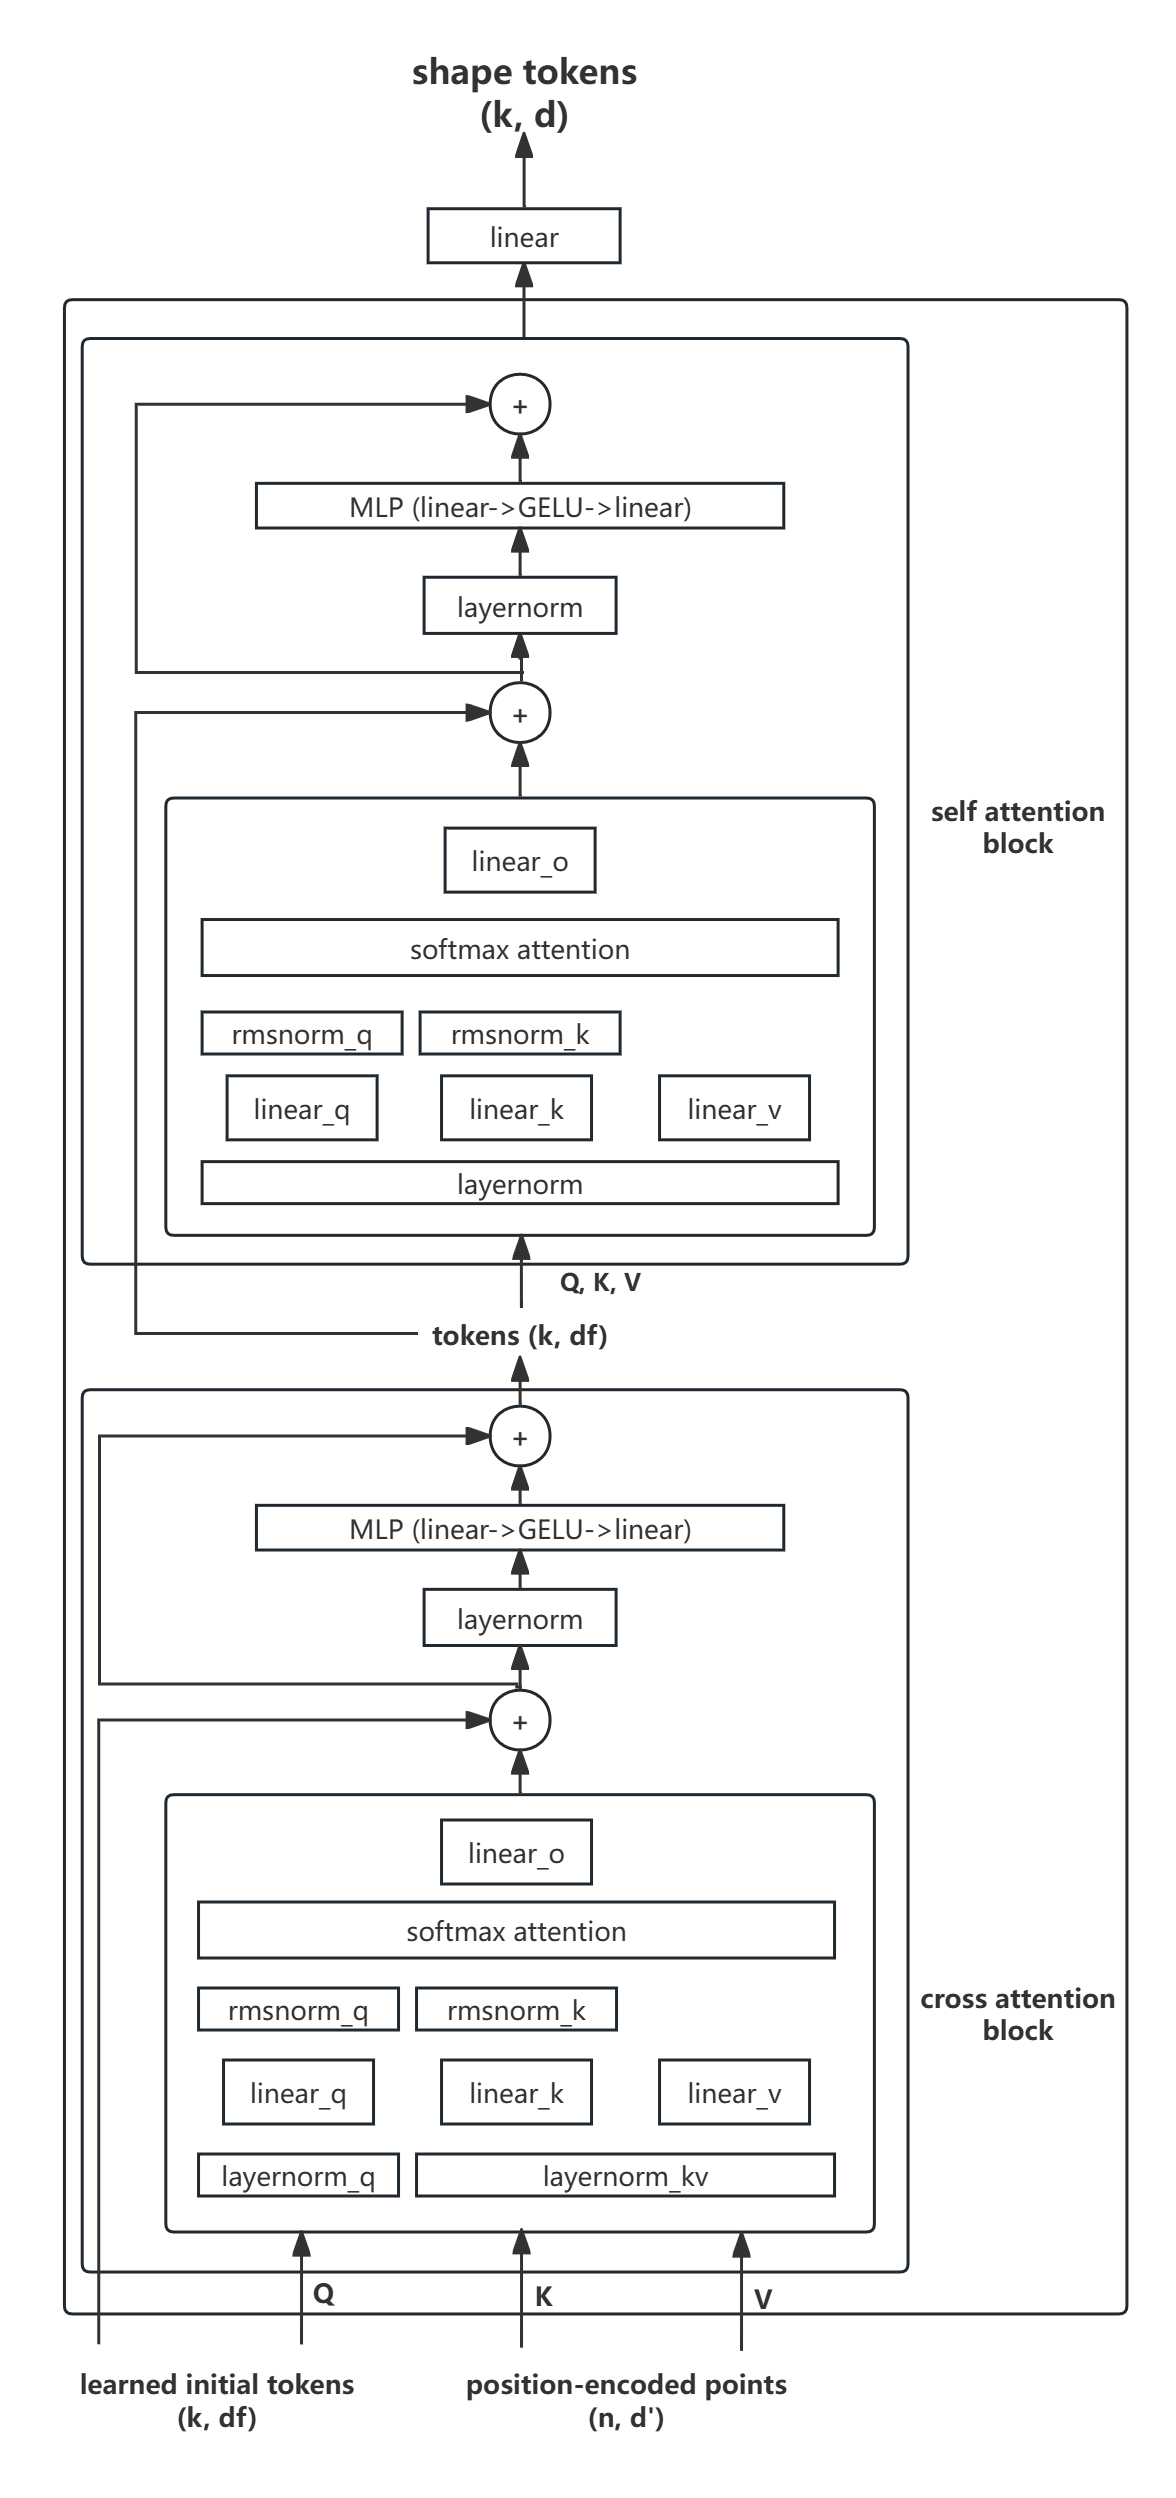
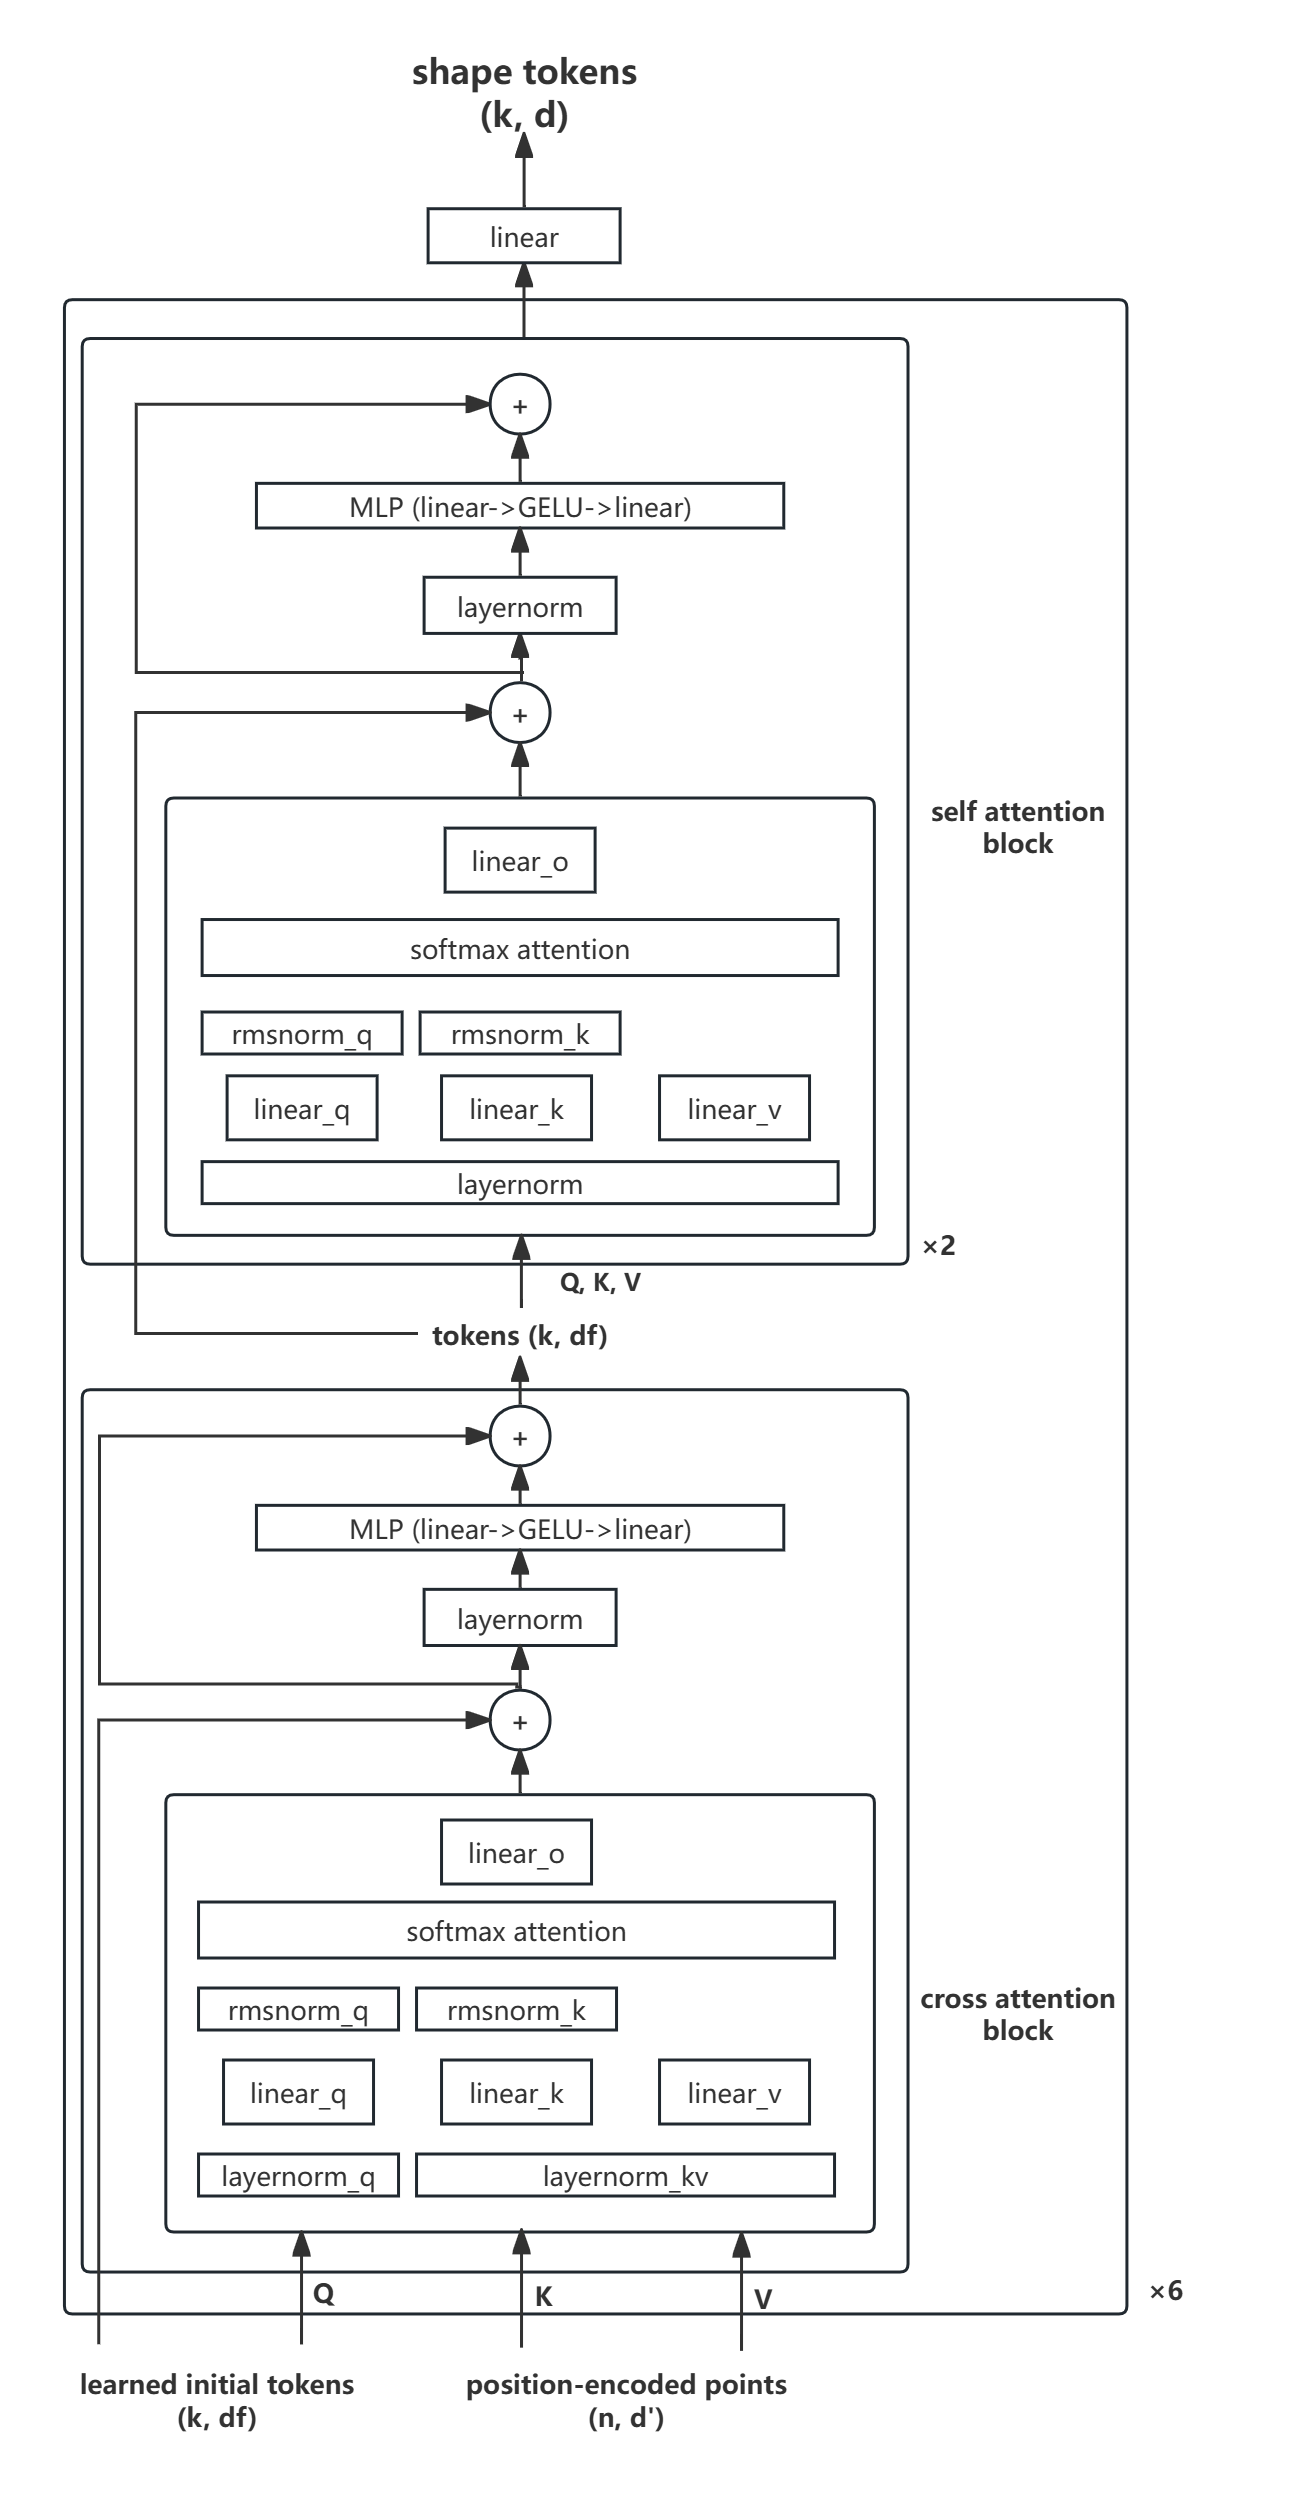
加入 estimator

diff --git a/index.md b/index.md
@@ -49,6 +49,18 @@ Demo 数据集包含的类别为: `02691156`, `02747177`, `03001627`, `04379243`
 
 ### 3.1 背景知识
 
+#### 3.1.1 位置编码器
+
+#### 3.1.2 时间编码器
+
+#### 3.1.3 自注意力模块
+
+#### 3.1.4 交叉注意力模块
+
+#### 3.1.5 自适应归一化层
+
+#### 3.1.6 Shift & Scale & Gating
+
 ### 3.2 Shape Tokenizer
 
 #### 3.2.1 简介
@@ -61,9 +73,31 @@ Shape Tokenizer 的结构如下图:
 
 ![Shape Tokenizer](/assets/shape_tokenizer.png)
 
+Shape Tokenizer 将点云编码为 $k$ 个 $d$ 维的 Shape Token。在 Shape Tokenizer 内部，Shape Token 的维度为 $d_f$。
 
+初始状态下，我们随机生成 $k$ 个 $d_f$ 维的 Shape Token，同时通过位置编码器将输入点云中的 $n$ 个点编码为 $d'$ 维的向量。我们使用 Shape Tokens 作为交叉注意力模块中的查询，位置编码作为键值，从点云中提取全局几何特征。同时使用残差连接、归一化和 MLP 来增强训练的稳定性, 经过交叉注意力模块后, 我们得到 $k$ 个 $d_f$ 维的 Shape Token。接着我们采用 2 个堆叠的自注意力模块，建立 Token 之间的依赖关系. 我们选择重复上述模块 6 次以达到细化 Token 表示的目的。最终经过一个线性层，我们得到 $k$ 个 $d$ 维的 Shape Token。它将作为后续 Velocity Estimator 的输入。
 
 ### 3.3 Velocity Estimator
+
+#### 3.3.1 简介
+
+Velocity Estimator 是模型的解码器，它的目标是将 Shape Token 解码为 3D 形状的表面点云。Velocity Estimator 的输入为 Shape Token、经过位置编码的点以及经过位置编码的时间步。**这是因为 Velocity Estimator 本质上是在学习每个点随时间步的运动情况。**
+
+#### 3.3.2 模型结构
+
+Velocity Estimator 的结构如下图:
+
+![Velocity Estimator](/assets/velocity_estimator.png)
+
+Velocity Estimator 接收 Shape Tokenizer 编码的 $k$ 个 $d$ 维的 Shape Token，同时通过位置编码器将当前时间步编码为 $d''$ 维的向量，将当前点的位置编码为 $d'$ 的向量。时间编码 $t_{emb}$ 首先经过线性层和 SiLU 激活函数，然后生成 Shift 向量和 Scale 向量，去指导位置编码 $x_emb$ 经过线性层与归一化层（自适应归一化层）后的调制，调制的结果作为交叉注意力模块的询问，Shape Tokens 作为键值，得到的结果经过 gating 后与归一化后的 $x_{emb}$ 进行残差连接，然后将交叉注意力模块换成一个多层感知机，重复相似过程。最终重复上述模块 3 次，得到在当前时间步下，特定点在 Shape Token 下的运动方向。
+
+> 在实现中, $d''$ 与 $d$ 的维度相同。
+
+> **自适应归一化层的结构仍需继续确认。**
+
+### 3.4 推理过程
+
+### 3.5 损失函数
 
 ## 4. 实验结果
 

diff --git a/docs/main.md b/docs/main.md
@@ -63,6 +63,8 @@ Shape Tokenizer 的结构如下图:
 
 
 
+
+
 ### 3.3 Velocity Estimator
 
 ## 4. 实验结果
